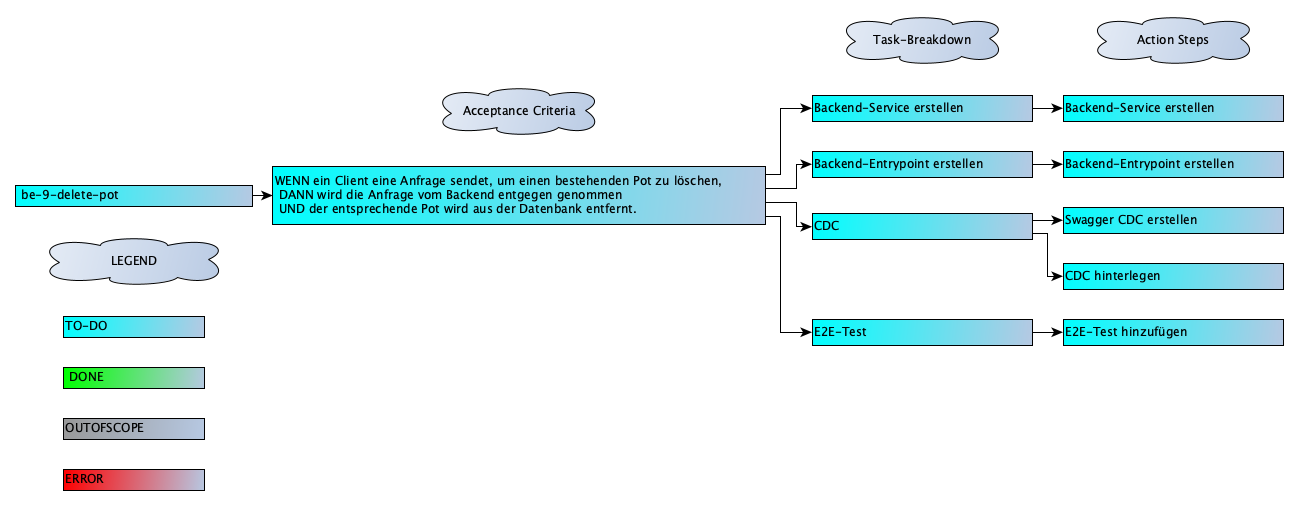
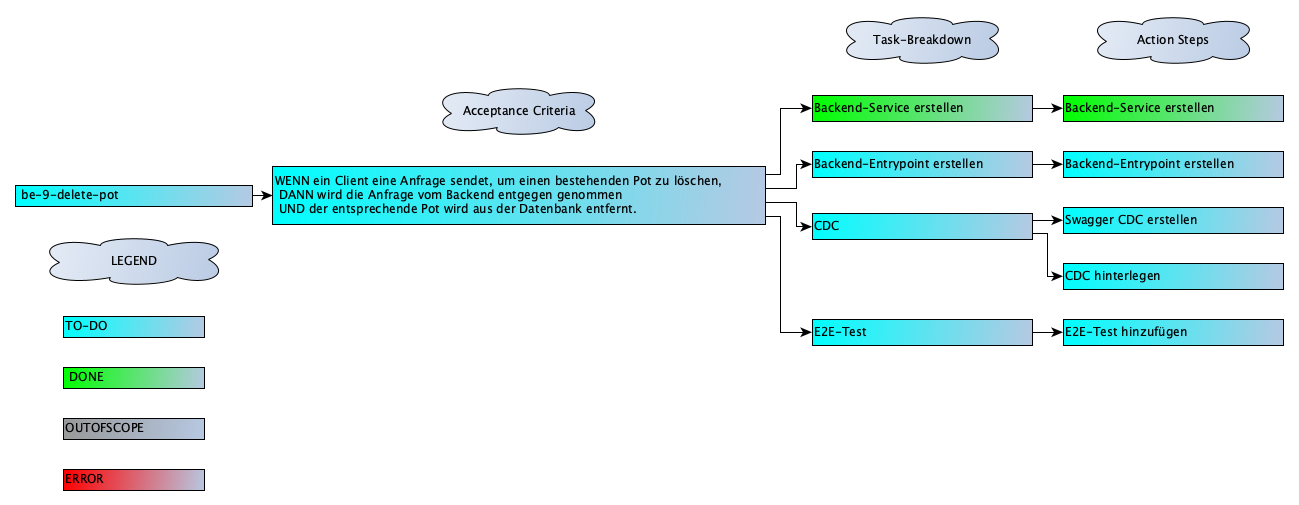
be-9 add service deletePot

Changed region(s): [[0.6159, 0.1782, 0.9854, 0.2376]]

diff --git a/backend/src/apis/pots/pots.service.spec.ts b/backend/src/apis/pots/pots.service.spec.ts
@@ -78,6 +78,7 @@ describe('PotsService', () => {
       save: jest.fn().mockResolvedValue(mockedPotsEntity[0]),
       findOne: jest.fn().mockResolvedValue(mockedPotsEntity[0]),
       update: jest.fn().mockResolvedValue({}),
+      remove: jest.fn().mockResolvedValue({}),
     };
 
     jest
@@ -171,5 +172,35 @@ describe('PotsService', () => {
     await expect(() =>
       service.editPot(mockedEditedPotEntityMapped),
     ).rejects.toThrow('Could not edit pot.');
+  });
+
+  it('deletes a pot in repository', async () => {
+    await service.deletePot(mockedPots[0].name);
+
+    expect(repository.findOne).toHaveBeenCalledWith({
+      where: { name: mockedPots[0].name },
+    });
+
+    expect(repository.remove).toHaveBeenCalledWith(mockedPotsEntity[0]);
+  });
+
+  it('throws an error if deleting pot fails', async () => {
+    jest
+      .spyOn(repository, 'remove')
+      .mockRejectedValue(new Error('Database error'));
+
+    await expect(() => service.deletePot(mockedPots[0].name)).rejects.toThrow(
+      'Could not delete pot.',
+    );
+  });
+
+  it('throws an error if finding pot to delete fails', async () => {
+    jest
+      .spyOn(repository, 'findOne')
+      .mockRejectedValue(new Error('Database error'));
+
+    await expect(() => service.deletePot(mockedPots[0].name)).rejects.toThrow(
+      'Could not delete pot.',
+    );
   });
 });

diff --git a/backend/src/apis/pots/pots.service.ts b/backend/src/apis/pots/pots.service.ts
@@ -1,4 +1,4 @@
-import { Injectable } from '@nestjs/common';
+import { Injectable, NotFoundException } from '@nestjs/common';
 import { APIPotDTO } from '../../model/apis/APIPotDTO';
 import * as path from 'node:path';
 import * as fs from 'node:fs';
@@ -61,6 +61,23 @@ export class PotsService {
     } catch (error) {
       console.error('Failed to edit pot in database.', error.message);
       throw new Error('Could not edit pot.');
+    }
+  }
+
+  async deletePot(name: string): Promise<void> {
+    try {
+      const potToDelete: Pots = await this.potsRepository.findOne({
+        where: { name },
+      });
+
+      if (!potToDelete) {
+        console.error(`No pot found with name ${name}`);
+      }
+
+      await this.potsRepository.remove(potToDelete);
+    } catch (error) {
+      console.error('Failed to delete pot in database', error);
+      throw new Error('Could not delete pot.');
     }
   }
 

diff --git a/backend/src/apis/budget/budget.service.ts b/backend/src/apis/budget/budget.service.ts
@@ -67,9 +67,7 @@ export class BudgetService {
       });
 
       if (!budgetToDelete) {
-        console.error(
-          `No budget found with category ${budgetToDelete.category}`,
-        );
+        console.error(`No budget found with category ${category}`);
         return;
       }
 
